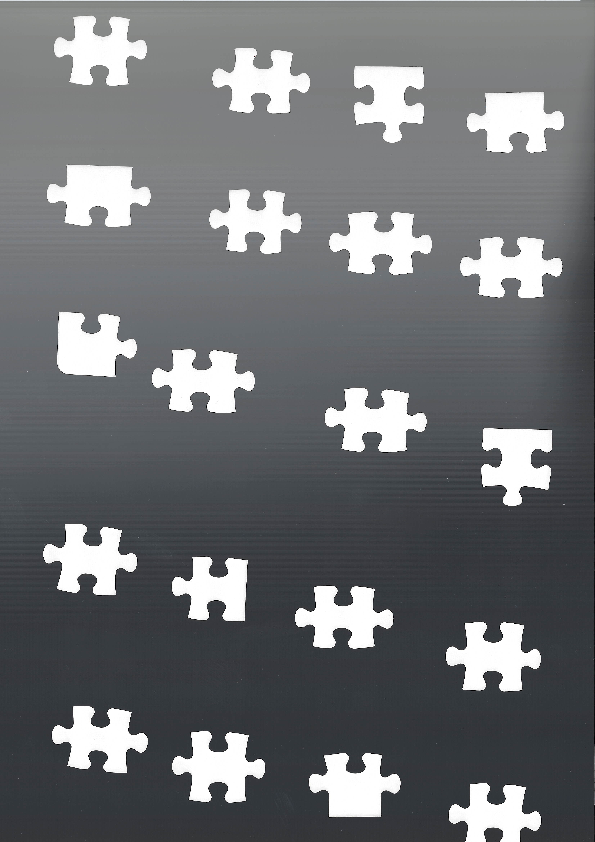
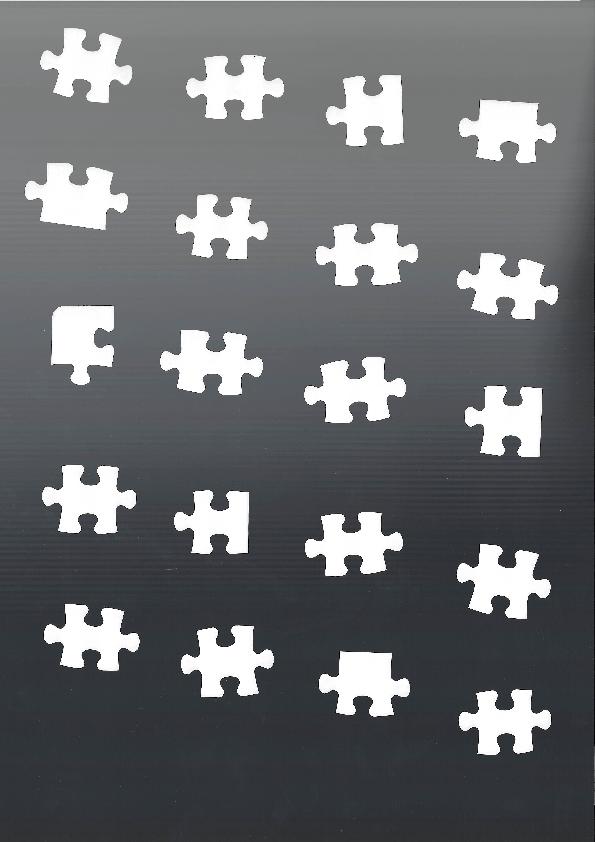
リファクタリング
いらないと思った処理を全部消しました

diff --git a/example2.py b/example2.py
@@ -6,15 +6,19 @@ import matplotlib.pyplot as plt
 
 def main():
     #カラー画像の読み取り
-    img_src = cv2.imread("./input/testimg2.png",1)
-    
+    img_src1 = cv2.imread("./input/1T20.png",1)
+    img_src2 = cv2.imread("./input/21T40.png",1)
+    img_src3 = cv2.imread("./input/41T60.png",1)
+    img_src4 = cv2.imread("./input/61T80.png",1)
+    img_src5 = cv2.imread("./input/81T96.png",1)
+    img_src6 = cv2.imread("./input/97T104.png",1)
+
+    images = [img_src1,img_src2,img_src3,img_src4,img_src5,img_src6]
     #画像反転
-#    UMat destination;
-    img_src = cv2.flip(img_src,1)
-#    showImage(img_src)
+#    img_src = cv2.flip(img_src,1)
 
     #グレースケール
-    img_gray = cv2.cvtColor(img_src,cv2.COLOR_BGR2GRAY)
+    img_gray = cv2.cvtColor(images[3],cv2.COLOR_BGR2GRAY)
     
     #二値化
     thresh = 172
@@ -24,56 +28,19 @@ def main():
                                   max_value,
                                   cv2.THRESH_BINARY_INV)
 
-     #ノイズ除去
-
+    #白黒反転
     img_binary = cv2.bitwise_not(img_binary)
-#    showImage(img_binary)
-    #ラベリング処理
+    #ラベリング処理(ノイズ含む)
     img_color,data,center = Labeling(img_binary)
-    #輪郭抽出
-    _,contours, hierarchy = cv2.findContours(cv2.bitwise_not(img_binary),
-                                            cv2.RETR_EXTERNAL,
-                                            cv2.CHAIN_APPROX_SIMPLE)
-
-    fig, axes = plt.subplots(figsize=(10,10))
-    img_contours = cv2.drawContours(img_binary,contours,-1,(0,0,255),3)
-#    showImage(img_contours)
-
-    #画像の切り抜き
+    #ノイズ除去
     removeNoise(img_binary,data,len(data))
+    
     kernel = np.ones((2,2),np.uint8)
     dilate = cv2.dilate(img_binary,kernel) #白の領域が膨張
     img_binary = cv2.erode(dilate,kernel) #白の領域が収縮
+    #ラベリング処理(ノイズ除去済み)
     img_color,data,center = Labeling(img_binary)
     showImage(img_color)
-    #A-KAZE検出器
-#    akaze = cv2.AKAZE_create()
-#    kp1, des1 = akaze.detectAndCompute(img_binary,None)
-#    kp2, des2 = akaze.detectAndCompute(img_binary2,None)
-
-    #Brute-Force Matcher生成
-#    bf = cv2.BFMatcher()
-
-    #特徴量ベクトル同士をBrute-Force&KNNでマッチング
-#    matches = bf.knnMatch(des1,des2,k=2)
-
-    # データを間引きする
-#    ratio = 0.005
-#    good = []
-#    for m, n in matches:
-#        if m.distance < ratio * n.distance:
-#            good.append([m])
-
-    # 対応する特徴点同士を描画
-#    img3 = cv2.drawMatchesKnn(img_binary, kp1, img_binary2, kp2, good, None, flags=2)
-
-#    kp2_2 = akaze.detect(img_binary2)
-#    img_akaze = cv2.drawKeypoints(img_binary2,kp2_2,None,flags=4)
-#    showImage(img_akaze)
-
-    # 画像表示
-#    showImage(img_binary2)
-#    cv2.imwrite("./output/matching.png",img3)
 
 
 #画像の切り抜き
@@ -88,12 +55,11 @@ def imgClip(id,data,src):
         dst = src[y0:y1,x0:x1]
     return dst
 
-
+#ラベリング関数
 def Labeling(src):
     Labels = cv2.connectedComponentsWithStats(src)
     #オブジェクト情報を抽出
     LabelNum = Labels[0] - 1
-    print(LabelNum)
     data = np.delete(Labels[2],0,0)
     center = np.delete(Labels[3],0,0)
     
@@ -114,11 +80,11 @@ def Labeling(src):
 #    showImage(dst)
     return dst,data,center
 
+#ノイズ除去関数
 def removeNoise(src,data,num):
     id = 0
     for id in range(num):
         img_clip = imgClip(id,data,src)
-        print(img_clip.size)
         if img_clip.size < 1000 :
             x0 = data[id][0]
             y0 = data[id][1]
@@ -126,20 +92,6 @@ def removeNoise(src,data,num):
             y1 = data[id][1] + data[id][3]
             contours = np.array([[x0,y0],[x0,y1],[x1,y1],[x1,y0]])
             cv2.fillPoly(src,pts=[contours],color=(0,0,0))
-
-def draw_contours(axes, img, contours):
-    from matplotlib.patches import Polygon
-#    axes.imshow(img)
-    axes.axis('off')
-    for i, cnt in enumerate(contours):
-        cnt = np.squeeze(cnt)
-        # 点同士を結ぶ線を描画する。
-        axes.add_patch(Polygon(cnt, fill=None, lw=2., color='b'))
-        # 点を描画する。
-        axes.plot(cnt[:, 0], cnt[:, 1],
-                  marker='o', ms=4., mfc='red', mew=0., lw=0.)
-        # 輪郭の番号を描画する。
-        axes.text(cnt[0][0], cnt[0][1], i, color='orange', size='20')
 
 # 画像の表示関数
 def showImage(img):
